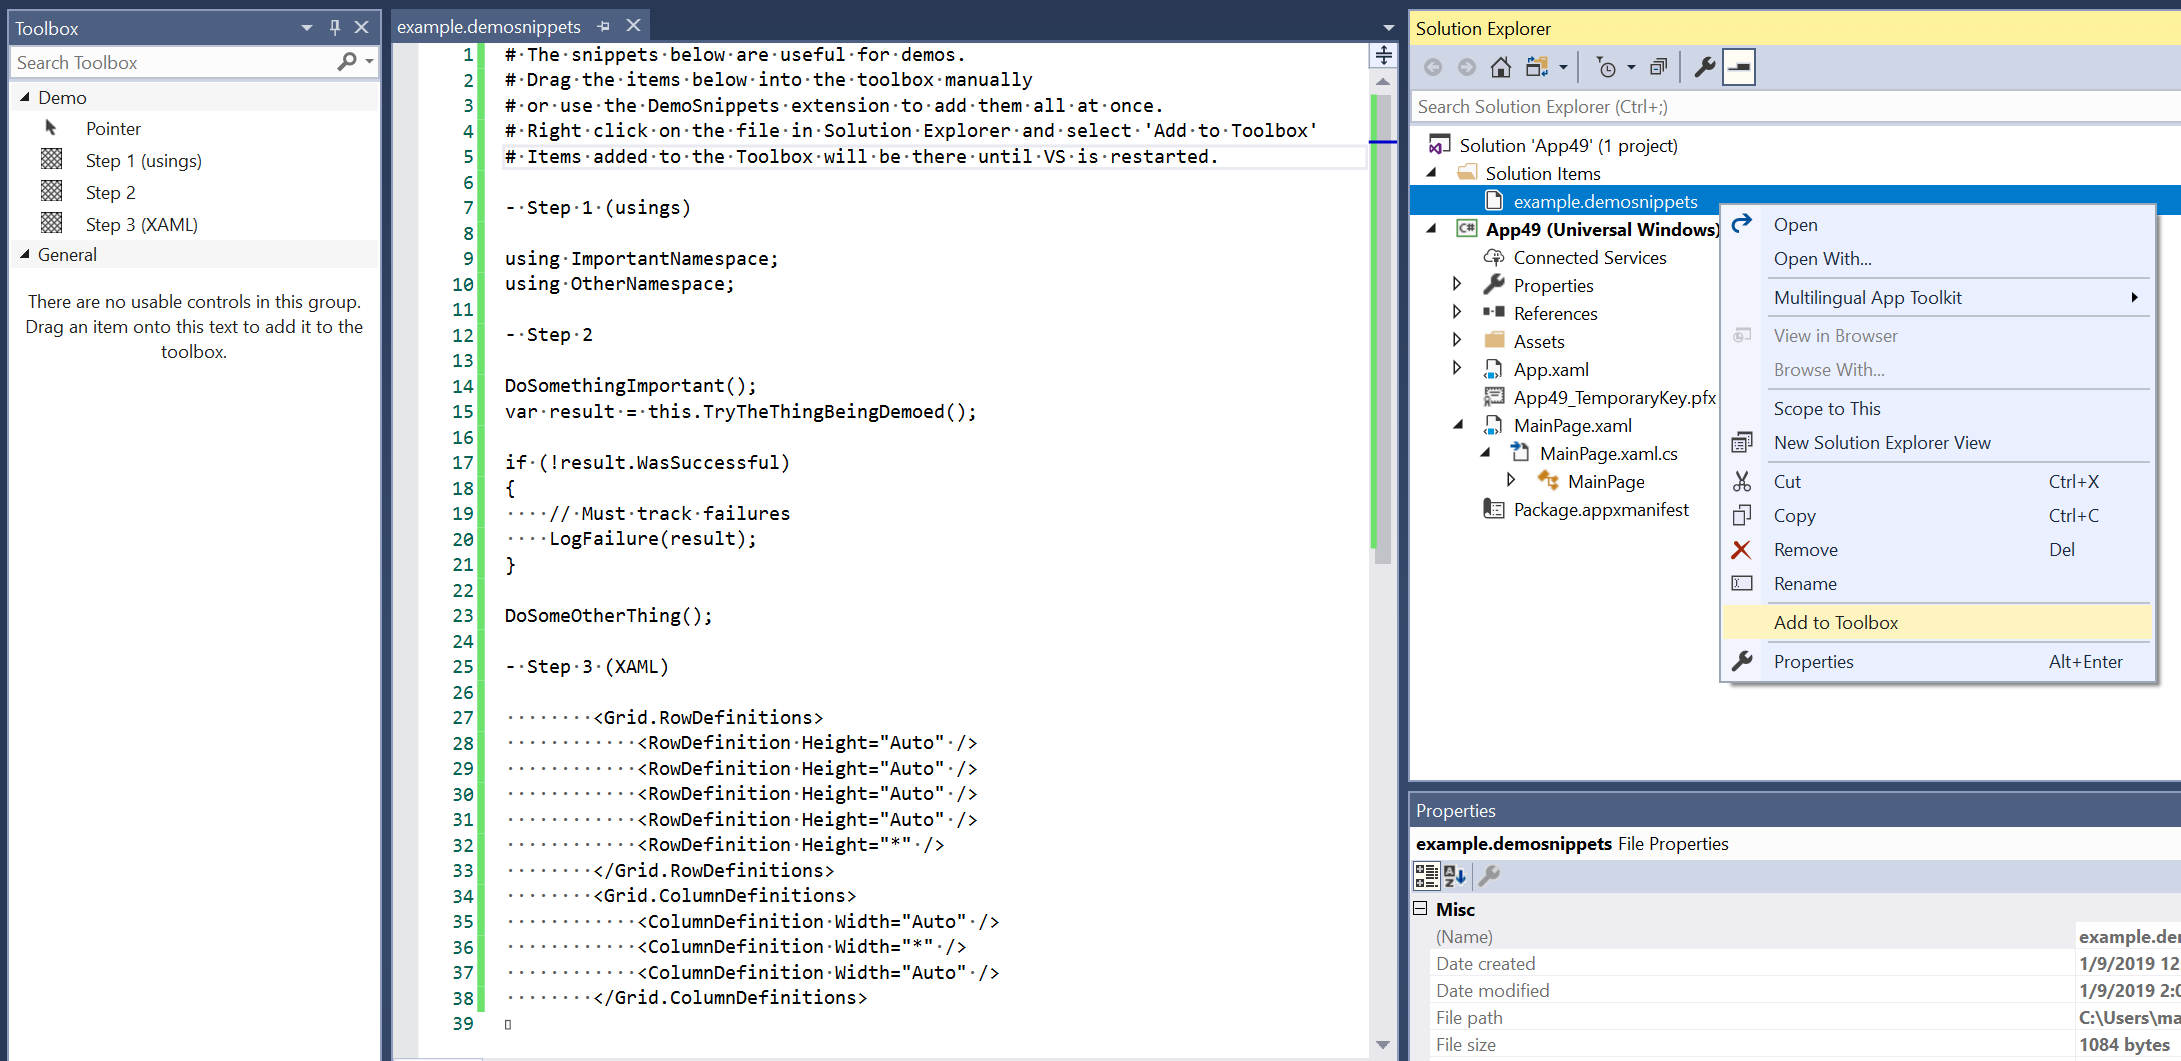
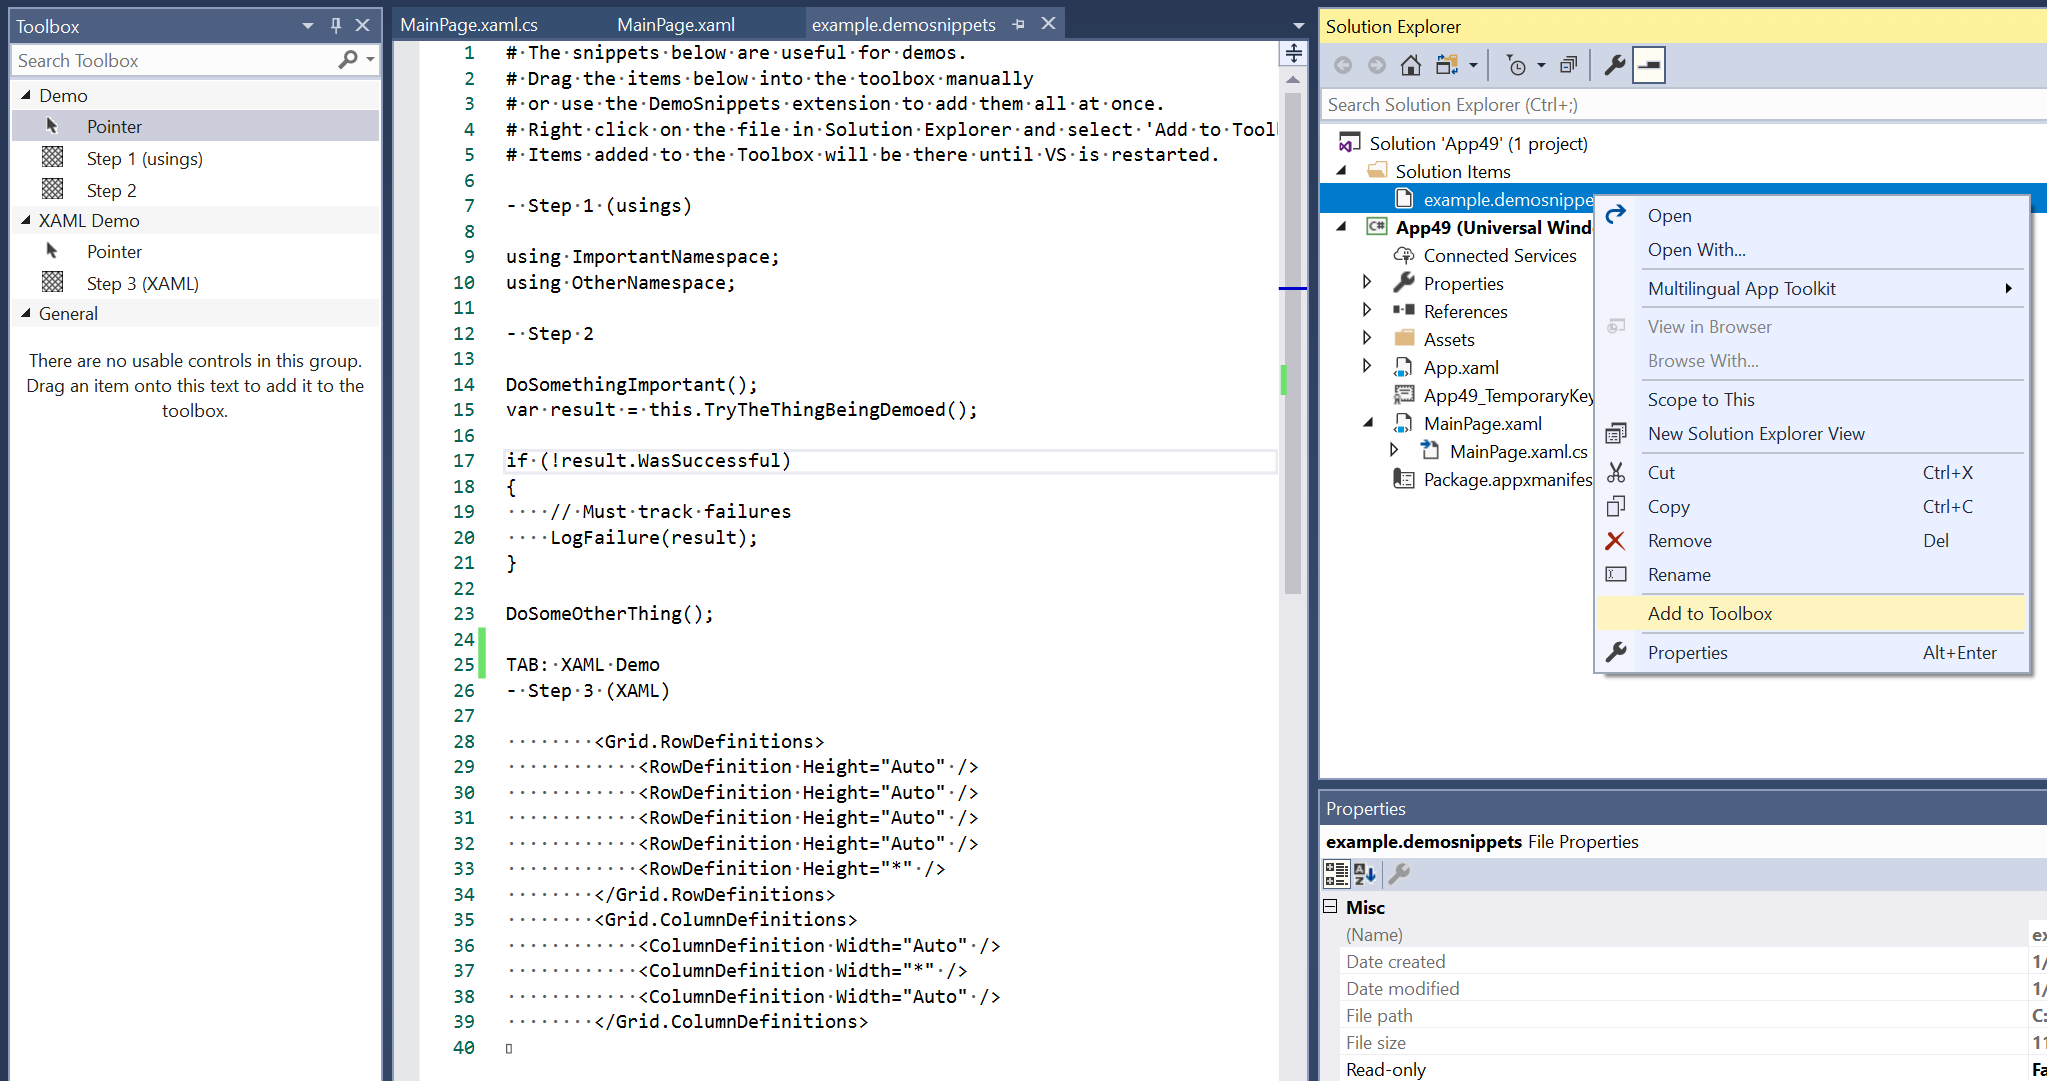
Update readme regarding custom tabs
#2

Changed region(s): [[0.0, 0.0, 1.0, 1.0]]

diff --git a/DemoSnippets/AddToToolbox.cs b/DemoSnippets/AddToToolbox.cs
@@ -73,7 +73,7 @@ namespace DemoSnippets
                     // Save the name of the selected file so we have it when the command is executed
                     this.SelectedFileName = transformFileInfo.FullName;
 
-                    if (transformFileInfo.Name.EndsWith(".demosnippets"))
+                    if (transformFileInfo.Name.ToLowerInvariant().EndsWith(".demosnippets"))
                     {
                         menuCmd.Visible = menuCmd.Enabled = true;
                     }

diff --git a/README.md b/README.md
@@ -5,6 +5,8 @@
 Download this extension from the [VS Gallery](https://marketplace.visualstudio.com/items?itemName=MattLaceyLtd.DemoSnippets)
 or get the [CI build](http://vsixgallery.com/extension/DemoSnippets.e2d68c23-8599-40e8-b402-a57060bf3d29/).
 
+Supports Visual Studio 2017 & 2019
+
 ---------------------------------------
 
 Visual Studio extension that provides a command for adding the contents of *.demosnippets to the Toolbox.
@@ -15,13 +17,14 @@ Intended to make it easy to use code snippets in demos.
 ## Features
 
 - Store your code snippets in a file with a **.demosnippets** extension.
-- Right-click on the file in Solution Explorer and select 'Add to Toolbox'
+- Right-click on the file in Solution Explorer and select 'Add to Toolbox'.
 
 ### .demosnippets file
 
 - Comment lines start with a hash.
 - Labels (displayed in the toolbox) start with a hyphen.
 - Text between labels is included as the contents of the snippet.
+- Snippets are added to the "Demo" tab. This can be overridden by specifying a tab name in a line starting "Tab:".
 
 
 See the [change log](CHANGELOG.md) for changes and road map.
